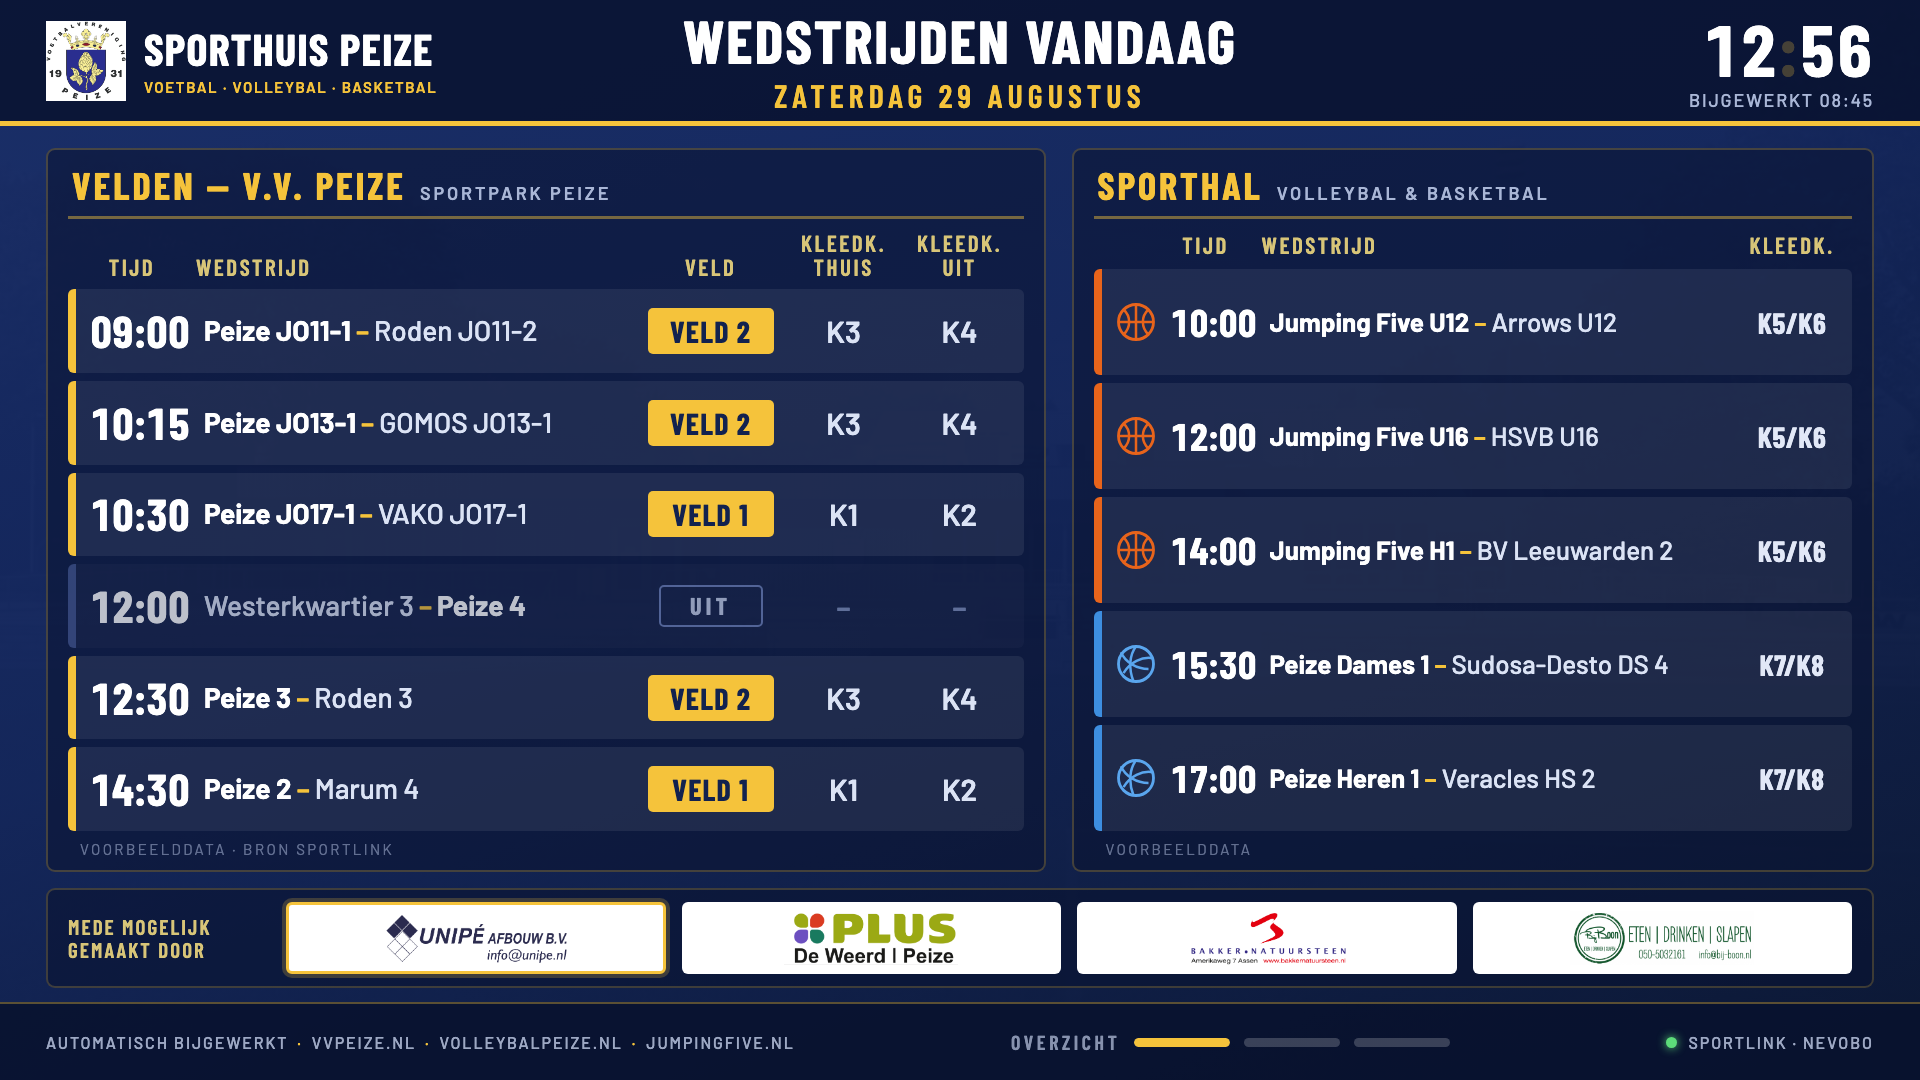
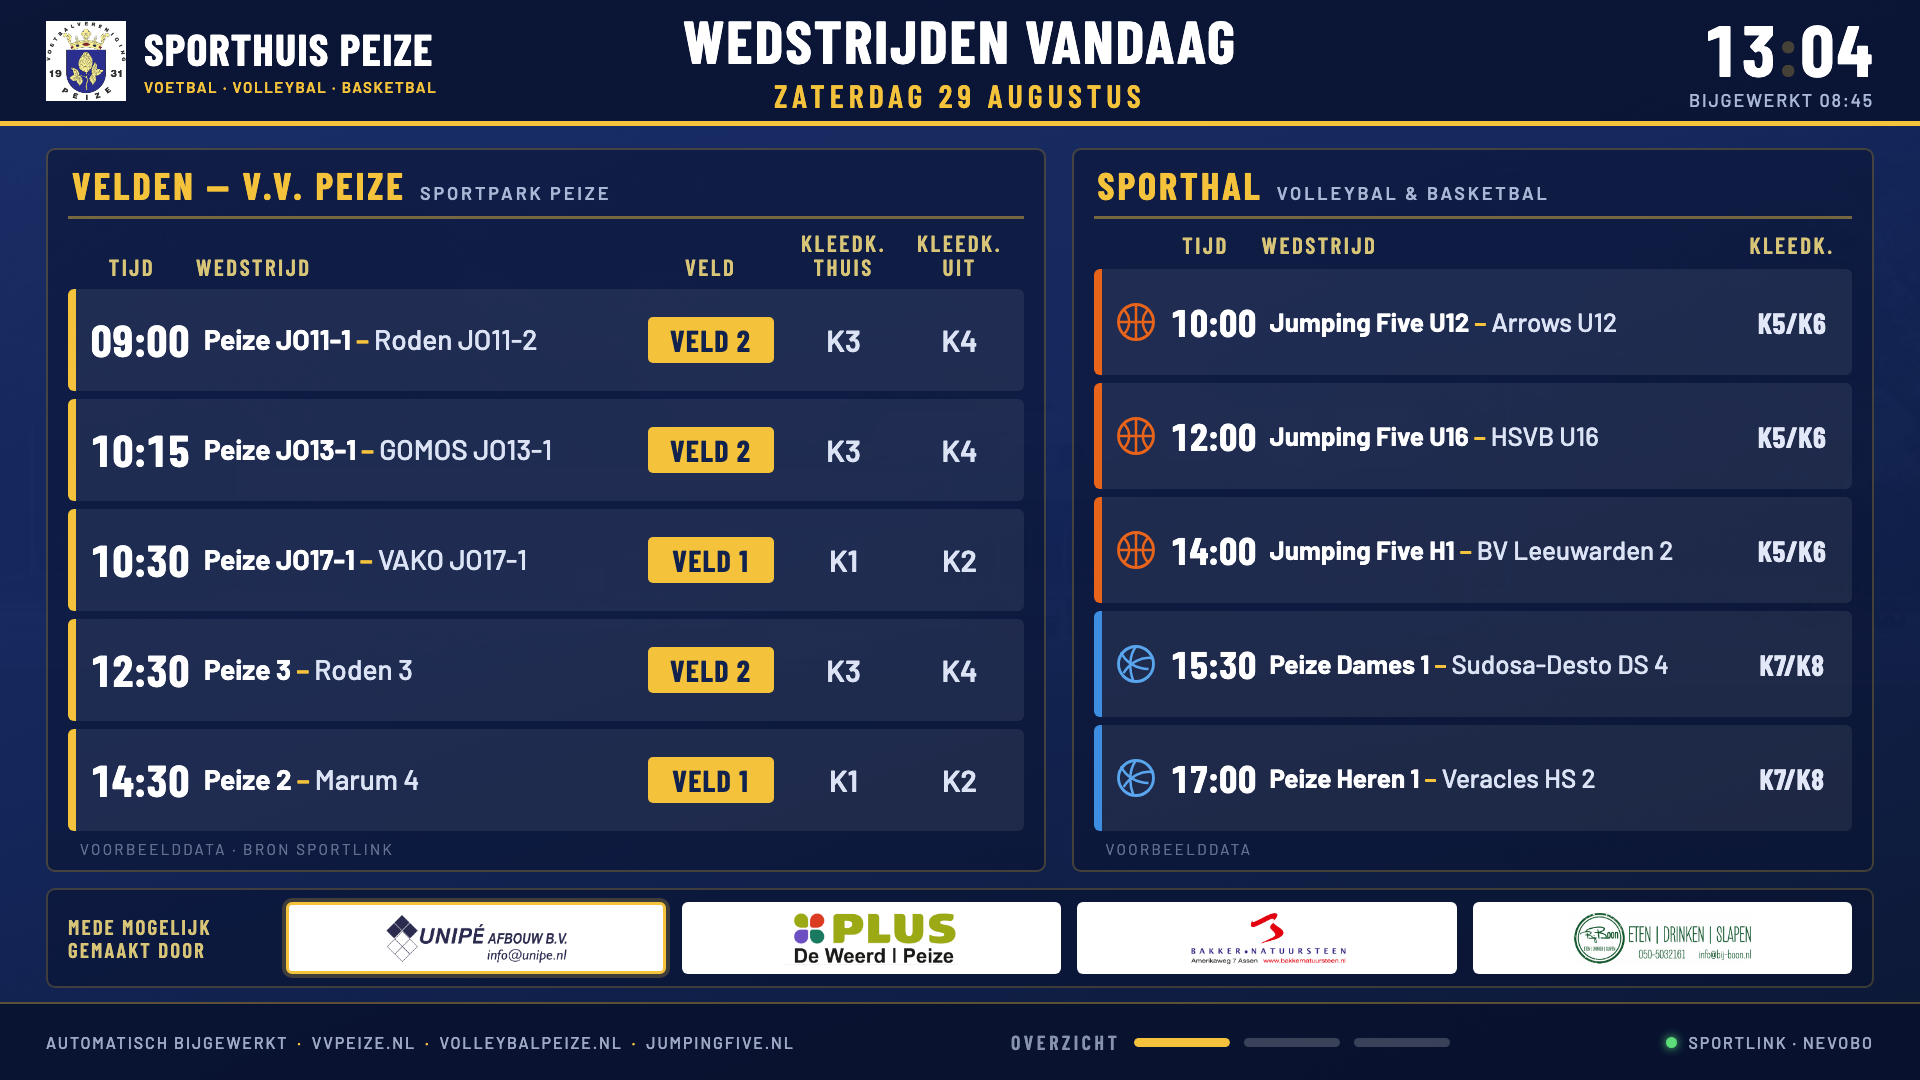
Kantinescherm: uitwedstrijden verwijderd; overzichtskaart benoemt alle drie de clubs

diff --git a/index.html b/index.html
@@ -379,9 +379,9 @@
       <a class="card" href="mockup/kantinescherm.html">
         <div class="thumb"><img src="mockup/mock_kantinescherm.png" alt="Screenshot kantinescherm"></div>
         <div class="card-body">
-          <span class="tag">TV · Narrowcasting</span>
+          <span class="tag">TV · Alle Peizer clubs</span>
           <h2>Kantinescherm</h2>
-          <p>Full-screen tv-weergave voor in de kantine: de wedstrijden van vandaag met veld- en kleedkamerindeling, live klok en roulerende sponsors. Gevoed door dezelfde Sportlink-data. Opent op tv-formaat (1920×1080).</p>
+          <p>Full-screen tv-weergave voor het gedeelde Sporthuis: alle thuiswedstrijden van vandaag — voetbal (V.V. Peize), volleybal (Volleybal Peize) én basketbal (Jumping Five) — met veld- en kleedkamerindeling, gevolgd door roulerende club-slides. Data per bond: Sportlink en Nevobo. Opent op tv-formaat (1920×1080).</p>
           <span class="open">Bekijk variant</span>
         </div>
       </a>

diff --git a/mockup/kantinescherm.html b/mockup/kantinescherm.html
@@ -573,13 +573,6 @@ img{display:block;}
               <div class="cel">K1</div>
               <div class="cel">K2</div>
             </div>
-            <div class="row uit">
-              <div class="tijd">12:00</div>
-              <div class="wedstrijd">Westerkwartier 3<span class="vs">–</span><b>Peize 4</b></div>
-              <div class="cel"><span class="uitlabel">Uit</span></div>
-              <div class="cel"><span class="leeg">–</span></div>
-              <div class="cel"><span class="leeg">–</span></div>
-            </div>
             <div class="row">
               <div class="tijd">12:30</div>
               <div class="wedstrijd"><b>Peize 3</b><span class="vs">–</span>Roden 3</div>
